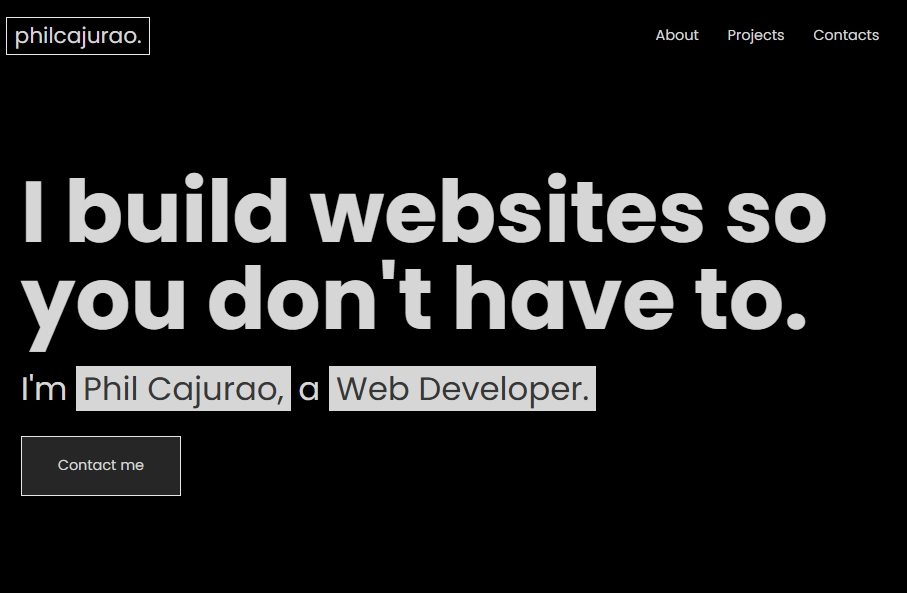
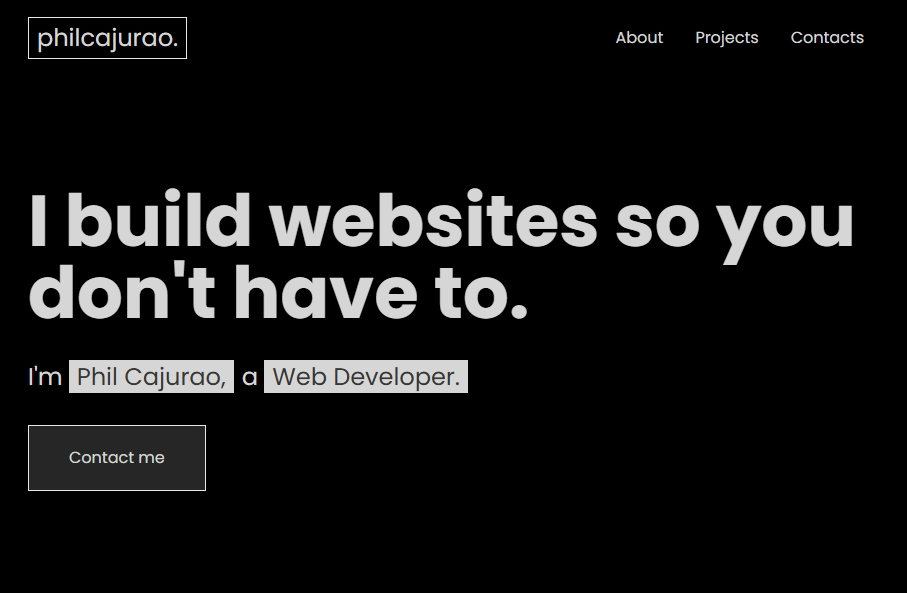
Updated changes

Changed region(s): [[0.0, 0.2732, 0.957, 0.8499], [0.6792, 0.0304, 0.957, 0.0911], [0.0, 0.0304, 0.2161, 0.1214]]

diff --git a/src/sections/Projects.jsx b/src/sections/Projects.jsx
@@ -1,26 +1,32 @@
 import ie from "../assets/projects/ie.png"
 import fts from "../assets/projects/fts.png"
+import feoaf from "../assets/projects/feoaf.png"
+import portfolio from "../assets/projects/portfolio.png"
 import ghl from "../assets/techstacks/ghl.png"
 import { FaReact, FaPhp, FaWordpress } from "react-icons/fa";
 import { RiTailwindCssFill } from "react-icons/ri";
+import { TbBrandNextjs } from "react-icons/tb";
+import { BiLogoTypescript } from "react-icons/bi";
 
 const Projects = () => {
   return (
     <div className="h-full px-4 py-16">
       <h3 className="text-2xl font-semibold text-center mb-16">Projects</h3>
 
-      <div className="grid lg:grid-cols-2 w-full place-items-center gap-8">
-        <div className="card border max-w-md overflow-y-hidden">
+
+
+      <div className="grid lg:grid-cols-2 w-full place-items-stretch gap-8">
+        <div className="card border max-w-md overflow-y-hidden mx-auto">
           <figure>
             <img
               src={ie}
               alt="Insurance Enterprise USA Site"
-              className="h-full"
+              className="h-full border-b  border-neutral/50"
             />
           </figure>
           <div className="card-body">
             <h2 className="card-title">Insurance Enterprise USA</h2>
-            <p className="line-clamp-2 leading-4">Insurance website with quote & enroll feature.</p>
+            <p className="leading-4 text-sm text-base-content/80">Insurance website with quote & enroll feature.</p>
 
             <div className="flex space-x-2 text-2xl">
               <div className="text-[#3858E9] tooltip tooltip-bottom" data-tip="Wordpress">
@@ -56,24 +62,23 @@ const Projects = () => {
           </div>
         </div>
 
-        <div className="card border max-w-md overflow-y-hidden">
+
+
+        <div className="card border max-w-md overflow-y-hidden mx-auto">
           <figure>
             <img
               src={fts}
               alt="Fortune Tech Solutions Site"
-              className="h-full"
+              className="h-full border-b  border-neutral/50"
             />
           </figure>
           <div className="card-body">
             <h2 className="card-title">Fortune Tech Solutions</h2>
-            <p className="line-clamp-2 leading-4">Business-focused site offering IT services.</p>
+            <p className="leading-4 text-sm text-base-content/80">Business-focused site offering IT services.</p>
 
             <div className="flex items-center space-x-2 text-2xl">
-              <div className="tooltip tooltip-bottom" data-tip="EmailJS">
-                <svg className="w-5 h-5 text-[#FF8434] rotate-45" aria-hidden="true" xmlns="http://www.w3.org/2000/svg" width="24" height="24" fill="currentColor" viewBox="0 0 24 24">
-                  <path d="m3.62 6.389 8.396 6.724 8.638-6.572-7.69-4.29a1.975 1.975 0 0 0-1.928 0L3.62 6.39Z" />
-                  <path d="m22 8.053-8.784 6.683a1.978 1.978 0 0 1-2.44-.031L2.02 7.693a1.091 1.091 0 0 0-.019.199v11.065C2 20.637 3.343 22 5 22h14c1.657 0 3-1.362 3-3.043V8.053Z" />
-                </svg>
+              <div className="tooltip tooltip-bottom" data-tip="GoHighLevel">
+                <img src={ghl} alt="ghl" className="w-full max-h-[23.99px]" />
               </div>
               <div className="text-[#53c1de] tooltip tooltip-bottom" data-tip="React JS">
                 {/* <img src={react} alt="" className="w-full max-h-[25px]" /> */}
@@ -110,8 +115,121 @@ const Projects = () => {
             </div>
           </div>
         </div>
-      </div>
 
+
+        <div className="card border max-w-md overflow-y-hidden mx-auto">
+          <figure>
+            <img
+              src={feoaf}
+              alt="Future Entrepreneurs Of America Foundation Site"
+              className="h-full border-b  border-neutral/50"
+            />
+          </figure>
+          <div className="card-body">
+            <h2 className="card-title">Future Entrepreneurs Of America Foundation</h2>
+            <p className="leading-4 text-sm text-base-content/80">An organization dedicated to developing, guiding, and mentoring young entrepreneurs.</p>
+
+            <div className="flex items-center space-x-2 text-2xl">
+              <div className="tooltip tooltip-bottom" data-tip="GoHighLevel">
+                <img src={ghl} alt="ghl" className="w-full max-h-[23.99px]" />
+              </div>
+              <div className="text-white tooltip tooltip-bottom" data-tip="Next JS">
+                <TbBrandNextjs />
+              </div>
+              <div className="text-[#3178C6] tooltip tooltip-bottom" data-tip="TypeScript">
+                <BiLogoTypescript />
+              </div>
+              <div className="tooltip tooltip-bottom" data-tip="DaisyUI">
+                <svg className="w-6 h-6" viewBox="0 0 256 404" version="1.1" xmlns="http://www.w3.org/2000/svg" preserveAspectRatio="xMidYMid">
+                  <title>daisyUI</title>
+                  <g>
+                    <path d="M66.406015,280.753083 L189.593985,280.753083 C223.611404,280.753083 251.18797,308.329649 251.18797,342.347068 C251.18797,376.364486 223.611404,403.941053 189.593985,403.941053 L66.406015,403.941053 C32.3885965,403.941053 4.81203008,376.364486 4.81203008,342.347068 C4.81203008,308.329649 32.3885965,280.753083 66.406015,280.753083 Z" fill="#1AD1A5"></path>
+                    <circle fill="#FFFFFF" cx="128" cy="128" r="123.18797"></circle>
+                    <path d="M128,0 C198.692448,0 256,57.307552 256,128 C256,198.692448 198.692448,256 128,256 C57.307552,256 0,198.692448 0,128 C0,57.307552 57.307552,0 128,0 Z M128,4.81203008 C59.9651629,4.81203008 4.81203008,59.9651629 4.81203008,128 C4.81203008,196.034837 59.9651629,251.18797 128,251.18797 C196.034837,251.18797 251.18797,196.034837 251.18797,128 C251.18797,59.9651629 196.034837,4.81203008 128,4.81203008 Z" fillOpacity="0.2" fill="#000000"></path>
+                    <circle fill="#FF9903" cx="128" cy="128" r="55.1882105"></circle>
+                  </g>
+                </svg>
+              </div>
+              <div className="text-[#38BDF8] tooltip tooltip-bottom" data-tip="Tailwind">
+                {/* <img src={react} alt="" className="w-full max-h-[25px]" /> */}
+                <RiTailwindCssFill />
+              </div>
+            </div>
+
+            <div className="card-actions mt-8 justify-start sm:justify-end space-x-2">
+              {/* <a href="https://www.insuranceenterpriseusa.com/" target="_blank" rel="noopener noreferrer" className="flex items-center justify-center bg-base-300 p-3 text-center border transition-all duration-300 cursor-pointer hover:-translate-x-1 hover:-translate-y-1 hover:rounded-md hover:shadow-[2px_2px_0px_white]">
+                <svg className="w-6 h-6 text-gray-800 dark:text-white" aria-hidden="true" xmlns="http://www.w3.org/2000/svg" width="24" height="24" fill="none" viewBox="0 0 24 24">
+                  <path stroke="currentColor" strokeLinecap="round" strokeLinejoin="round" strokeWidth="2" d="m8 8-4 4 4 4m8 0 4-4-4-4m-2-3-4 14" />
+                </svg>
+              </a> */}
+              <a href="https://www.feoaf.org/" target="_blank" rel="noopener noreferrer" className="flex items-center justify-center bg-base-300 p-3 text-center border transition-all duration-300 cursor-pointer hover:-translate-x-1 hover:-translate-y-1 hover:rounded-md hover:shadow-[2px_2px_0px_white]">
+                <svg className="w-6 h-6 text-gray-800 dark:text-white" aria-hidden="true" xmlns="http://www.w3.org/2000/svg" width="24" height="24" fill="none" viewBox="0 0 24 24">
+                  <path stroke="currentColor" strokeLinecap="round" strokeLinejoin="round" strokeWidth="2" d="M13.213 9.787a3.391 3.391 0 0 0-4.795 0l-3.425 3.426a3.39 3.39 0 0 0 4.795 4.794l.321-.304m-.321-4.49a3.39 3.39 0 0 0 4.795 0l3.424-3.426a3.39 3.39 0 0 0-4.794-4.795l-1.028.961" />
+                </svg>
+              </a>
+            </div>
+          </div>
+        </div>
+
+
+        <div className="card border max-w-md overflow-y-hidden mx-auto relative">
+          <figure>
+            <img
+              src={portfolio}
+              alt="Portofolio Site"
+              className="h-full border-b  border-neutral/50"
+            />
+          </figure>
+          <div className="card-body flex-initial">
+            <h2 className="card-title">My Portfolio</h2>
+            <p className="leading-4 text-sm text-base-content/80">A simple showcase of my expertise with a clean and smooth design.</p>
+
+            <div className="flex items-center space-x-2 text-2xl">
+              <div className="tooltip tooltip-bottom" data-tip="EmailJS">
+                <svg className="w-5 h-5 text-[#FF8434] rotate-45" aria-hidden="true" xmlns="http://www.w3.org/2000/svg" width="24" height="24" fill="currentColor" viewBox="0 0 24 24">
+                  <path d="m3.62 6.389 8.396 6.724 8.638-6.572-7.69-4.29a1.975 1.975 0 0 0-1.928 0L3.62 6.39Z" />
+                  <path d="m22 8.053-8.784 6.683a1.978 1.978 0 0 1-2.44-.031L2.02 7.693a1.091 1.091 0 0 0-.019.199v11.065C2 20.637 3.343 22 5 22h14c1.657 0 3-1.362 3-3.043V8.053Z" />
+                </svg>
+              </div>
+              <div className="text-[#53c1de] tooltip tooltip-bottom" data-tip="React JS">
+                {/* <img src={react} alt="" className="w-full max-h-[25px]" /> */}
+                <FaReact />
+              </div>
+              <div className="tooltip tooltip-bottom" data-tip="DaisyUI">
+                <svg className="w-6 h-6" viewBox="0 0 256 404" version="1.1" xmlns="http://www.w3.org/2000/svg" preserveAspectRatio="xMidYMid">
+                  <title>daisyUI</title>
+                  <g>
+                    <path d="M66.406015,280.753083 L189.593985,280.753083 C223.611404,280.753083 251.18797,308.329649 251.18797,342.347068 C251.18797,376.364486 223.611404,403.941053 189.593985,403.941053 L66.406015,403.941053 C32.3885965,403.941053 4.81203008,376.364486 4.81203008,342.347068 C4.81203008,308.329649 32.3885965,280.753083 66.406015,280.753083 Z" fill="#1AD1A5"></path>
+                    <circle fill="#FFFFFF" cx="128" cy="128" r="123.18797"></circle>
+                    <path d="M128,0 C198.692448,0 256,57.307552 256,128 C256,198.692448 198.692448,256 128,256 C57.307552,256 0,198.692448 0,128 C0,57.307552 57.307552,0 128,0 Z M128,4.81203008 C59.9651629,4.81203008 4.81203008,59.9651629 4.81203008,128 C4.81203008,196.034837 59.9651629,251.18797 128,251.18797 C196.034837,251.18797 251.18797,196.034837 251.18797,128 C251.18797,59.9651629 196.034837,4.81203008 128,4.81203008 Z" fillOpacity="0.2" fill="#000000"></path>
+                    <circle fill="#FF9903" cx="128" cy="128" r="55.1882105"></circle>
+                  </g>
+                </svg>
+              </div>
+              <div className="text-[#38BDF8] tooltip tooltip-bottom" data-tip="Tailwind">
+                {/* <img src={react} alt="" className="w-full max-h-[25px]" /> */}
+                <RiTailwindCssFill />
+              </div>
+            </div>
+
+            <div className="card-actions lg:absolute lg:right-8 lg:bottom-8 lg:w-full mt-8 justify-start sm:justify-end space-x-2">
+              <a href="https://github.com/philcajurao/philcajurao.github.io" target="_blank" rel="noopener noreferrer" className="flex items-center justify-center bg-base-300 p-3 text-center border transition-all duration-300 cursor-pointer hover:-translate-x-1 hover:-translate-y-1 hover:rounded-md hover:shadow-[2px_2px_0px_white]">
+                <svg className="w-6 h-6 text-gray-800 dark:text-white" aria-hidden="true" xmlns="http://www.w3.org/2000/svg" width="24" height="24" fill="none" viewBox="0 0 24 24">
+                  <path stroke="currentColor" strokeLinecap="round" strokeLinejoin="round" strokeWidth="2" d="m8 8-4 4 4 4m8 0 4-4-4-4m-2-3-4 14" />
+                </svg>
+              </a>
+              <a href="https://philcajurao.is-a.dev/" target="_blank" rel="noopener noreferrer" className="flex items-center justify-center bg-base-300 p-3 text-center border transition-all duration-300 cursor-pointer hover:-translate-x-1 hover:-translate-y-1 hover:rounded-md hover:shadow-[2px_2px_0px_white]">
+                <svg className="w-6 h-6 text-gray-800 dark:text-white" aria-hidden="true" xmlns="http://www.w3.org/2000/svg" width="24" height="24" fill="none" viewBox="0 0 24 24">
+                  <path stroke="currentColor" strokeLinecap="round" strokeLinejoin="round" strokeWidth="2" d="M13.213 9.787a3.391 3.391 0 0 0-4.795 0l-3.425 3.426a3.39 3.39 0 0 0 4.795 4.794l.321-.304m-.321-4.49a3.39 3.39 0 0 0 4.795 0l3.424-3.426a3.39 3.39 0 0 0-4.794-4.795l-1.028.961" />
+                </svg>
+              </a>
+            </div>
+          </div>
+        </div>
+
+
+
+      </div>
     </div>
   );
 }

diff --git a/src/components/TechStacks.jsx b/src/components/TechStacks.jsx
@@ -1,11 +1,14 @@
 import mysql from "../assets/techstacks/mysql.png"
 import ghl from "../assets/techstacks/ghl.png"
+import java from "../assets/techstacks/java.svg"
 
 
 
 import { FaReact, FaWordpress, FaJs, FaHtml5, FaCss3Alt, FaGitAlt } from "react-icons/fa";
 import { RiTailwindCssFill } from "react-icons/ri";
 import { SiMui, SiPhp } from "react-icons/si";
+import { DiMaterializecss } from "react-icons/di";
+
 
 
 const TechStacks = () => {
@@ -13,64 +16,85 @@ const TechStacks = () => {
     <div className="w-full mx-auto px-4 py-32">
       <div className="flex flex-col items-center">
         <h2 className="text-center text-2xl font-semibold mb-16">Technologies I recently used</h2>
-        <div className="grid grid-cols-2 md:grid-cols-4 lg:grid-cols-6">
-          <div className="border p-12 hover:bg-base-content hover:text-[#3858E9] text-base-content transition-all text-7xl group cursor-default relative flex justify-center items-center">
+
+
+        <div className="grid grid-cols-2 md:grid-cols-4 lg:grid-cols-7">
+
+
+
+          <div className="p-12 hover:bg-base-content hover:text-[#3858E9] text-base-content transition-all text-7xl group cursor-default relative flex justify-center items-center">
             <p className="absolute h-full w-full text-center top-12 ease-out opacity-0 group-hover:-translate-y-8 scale-0 group-hover:scale-100 group-hover:opacity-100 duration-300 transition-all text-lg text-base-content/90 group-hover:text-primary">Wordpress</p>
             <FaWordpress />
           </div>
-          <div className="border hover:bg-base-content group cursor-default relative flex justify-center items-center">
+          <div className="hover:bg-base-content group cursor-default relative flex justify-center items-center">
             <p className="absolute h-full w-full text-center top-12 ease-out opacity-0 group-hover:-translate-y-8 scale-0 group-hover:scale-100 group-hover:opacity-100 duration-300 transition-all text-lg text-base-content/90 group-hover:text-primary">GoHighLevel</p>
             <img src={ghl} alt="ghl" className="w-[4.5rem] h-[4.5rem] grayscale group-hover:grayscale-0 transition-all" />
           </div>
-          <div className="border p-12 hover:bg-base-content hover:text-[#4F5B93] text-base-content transition-all text-7xl group cursor-default relative flex justify-center items-center">
+          <div className="p-12 hover:bg-base-content hover:text-[#4F5B93] text-base-content transition-all text-7xl group cursor-default relative flex justify-center items-center">
             <p className="absolute h-full w-full text-center top-12 ease-out opacity-0 group-hover:-translate-y-8 scale-0 group-hover:scale-100 group-hover:opacity-100 duration-300 transition-all text-lg text-base-content/90 group-hover:text-primary">PHP</p>
             <SiPhp className="" />
           </div>
-          <div className="border p-12 hover:bg-base-content hover:text-[#53c1de] text-base-content transition-all text-7xl group cursor-default relative flex justify-center items-center">
+          <div className="p-12 hover:bg-base-content hover:text-[#53c1de] text-base-content transition-all text-7xl group cursor-default relative flex justify-center items-center">
             <p className="absolute h-full w-full text-center top-12 ease-out opacity-0 group-hover:-translate-y-8 scale-0 group-hover:scale-100 group-hover:opacity-100 duration-300 transition-all text-lg text-base-content/90 group-hover:text-primary">React</p>
             <FaReact className="" />
           </div>
-          <div className="border hover:bg-base-content group cursor-default relative flex justify-center items-center">
-            <p className="absolute h-full w-full text-center top-12 ease-out opacity-0 group-hover:-translate-y-8 scale-0 group-hover:scale-100 group-hover:opacity-100 duration-300 transition-all text-lg text-base-content/90 group-hover:text-primary">MySQL</p>
-            <img src={mysql} alt="" className="w-full max-w-[100px] grayscale group-hover:grayscale-0 transition-all" />
+          <div className="p-12 hover:bg-base-content hover:text-[#1572B6] text-base-content transition-all text-7xl group cursor-default relative flex justify-center items-center">
+            <p className="absolute h-full w-full text-center top-12 ease-out opacity-0 group-hover:-translate-y-8 scale-0 group-hover:scale-100 group-hover:opacity-100 duration-300 transition-all text-lg text-base-content/90 group-hover:text-primary">CSS</p>
+            <FaCss3Alt className="" />
           </div>
-          <div className="border p-12 hover:bg-base-content hover:text-[#F44D27] text-base-content transition-all text-7xl group cursor-default relative flex justify-center items-center">
+          <div className="p-12 hover:bg-base-content hover:text-[#F44D27] text-base-content transition-all text-7xl group cursor-default relative flex justify-center items-center">
             <p className="absolute h-full w-full text-center top-12 ease-out opacity-0 group-hover:-translate-y-8 scale-0 group-hover:scale-100 group-hover:opacity-100 duration-300 transition-all text-lg text-base-content/90 group-hover:text-primary">Git</p>
             <FaGitAlt className="" />
           </div>
 
-          <div className="border p-12 hover:bg-base-content hover:text-[#F7BB00] text-base-content transition-all text-7xl group cursor-default relative flex justify-center items-center">
+
+
+          <div className="p-12 hover:bg-base-content hover:text-[#F7BB00] text-base-content transition-all text-7xl group cursor-default relative flex justify-center items-center">
             <p className="absolute h-full w-full text-center top-12 ease-out opacity-0 group-hover:-translate-y-8 scale-0 group-hover:scale-100 group-hover:opacity-100 duration-300 transition-all text-lg text-base-content/90 group-hover:text-primary">JavaScript</p>
             <FaJs className="" />
           </div>
-          <div className="border p-12 hover:bg-base-content hover:text-[#f16529] text-base-content transition-all text-7xl group cursor-default relative flex justify-center items-center">
+          <div className="p-12 hover:bg-base-content hover:text-[#f16529] text-base-content transition-all text-7xl group cursor-default relative flex justify-center items-center">
             <p className="absolute h-full w-full text-center top-12 ease-out opacity-0 group-hover:-translate-y-8 scale-0 group-hover:scale-100 group-hover:opacity-100 duration-300 transition-all text-lg text-base-content/90 group-hover:text-primary">HTML</p>
             <FaHtml5 className="" />
           </div>
-          <div className="border p-12 hover:bg-base-content hover:text-[#1572B6] text-base-content transition-all text-7xl group cursor-default relative flex justify-center items-center">
-            <p className="absolute h-full w-full text-center top-12 ease-out opacity-0 group-hover:-translate-y-8 scale-0 group-hover:scale-100 group-hover:opacity-100 duration-300 transition-all text-lg text-base-content/90 group-hover:text-primary">CSS</p>
-            <FaCss3Alt className="" />
+          <div className="p-12 hover:bg-base-content hover:text-[#EB7077] text-base-content transition-all text-7xl group cursor-default relative flex justify-center items-center">
+            <p className="absolute h-full w-full text-center top-12 ease-out opacity-0 group-hover:-translate-y-8 scale-0 group-hover:scale-100 group-hover:opacity-100 duration-300 transition-all text-lg text-base-content/90 group-hover:text-primary">Materialize CSS</p>
+            <DiMaterializecss className="" />
           </div>
-          <div className="border p-12 hover:bg-base-content hover:text-[#007FFF] text-base-content transition-all text-7xl group cursor-default relative flex justify-center items-center">
+          <div className="p-12 hover:bg-base-content hover:text-[#007FFF] text-base-content transition-all text-7xl group cursor-default relative flex justify-center items-center">
             <p className="absolute h-full w-full text-center top-12 ease-out opacity-0 group-hover:-translate-y-8 scale-0 group-hover:scale-100 group-hover:opacity-100 duration-300 transition-all text-lg text-base-content/90 group-hover:text-primary">MUI</p>
             <SiMui className="" />
           </div>
-          <div className="border hover:bg-base-content group cursor-default relative flex justify-center items-center">
+          <div className="hover:bg-base-content group cursor-default relative flex justify-center items-center">
             <p className="absolute h-full w-full text-center top-12 ease-out opacity-0 group-hover:-translate-y-8 scale-0 group-hover:scale-100 group-hover:opacity-100 duration-300 transition-all text-lg text-base-content/90 group-hover:text-primary">DaisyUI</p>
             <svg className="w-[4.5rem] h-[4.5rem] grayscale group-hover:grayscale-0 transition-all" viewBox="0 0 256 404" version="1.1" xmlns="http://www.w3.org/2000/svg" preserveAspectRatio="xMidYMid">
               <title>daisyUI</title>
               <g>
                 <path d="M66.406015,280.753083 L189.593985,280.753083 C223.611404,280.753083 251.18797,308.329649 251.18797,342.347068 C251.18797,376.364486 223.611404,403.941053 189.593985,403.941053 L66.406015,403.941053 C32.3885965,403.941053 4.81203008,376.364486 4.81203008,342.347068 C4.81203008,308.329649 32.3885965,280.753083 66.406015,280.753083 Z" fill="#1AD1A5"></path>
                 <circle fill="#FFFFFF" cx="128" cy="128" r="123.18797"></circle>
-                <path d="M128,0 C198.692448,0 256,57.307552 256,128 C256,198.692448 198.692448,256 128,256 C57.307552,256 0,198.692448 0,128 C0,57.307552 57.307552,0 128,0 Z M128,4.81203008 C59.9651629,4.81203008 4.81203008,59.9651629 4.81203008,128 C4.81203008,196.034837 59.9651629,251.18797 128,251.18797 C196.034837,251.18797 251.18797,196.034837 251.18797,128 C251.18797,59.9651629 196.034837,4.81203008 128,4.81203008 Z" fillOpacity="0.2" fill="#000000"></path>
+                <path d="M128,0 C198.692448,0 256,57.307552 256,128 C256,198.692448 198.692448,256 128,256 C57.307552,256 0,198.692448 0,128 C0,57.307552 57.307552,0 128,0 Z M128,4.81203008 C59.9651629,4.81203008 4.81203008,59.9651629 4.81203008,128 C4.81203008,196.034837 59.9651629,251.18797 128,251.18797 C196.034837,251.18797 251.18797,196.034837 251.18797,128 C251.18797,59.9651629 196.034837,4.81203008 128,4.81203008 Z" fillOpacity="0.3" fill="#000000"></path>
                 <circle fill="#FF9903" cx="128" cy="128" r="55.1882105"></circle>
               </g>
             </svg>
           </div>
-          <div className="border p-12 hover:bg-base-content hover:text-[#38BDF8] text-base-content transition-all text-7xl group cursor-default relative flex justify-center items-center">
+          <div className="p-12 hover:bg-base-content hover:text-[#38BDF8] text-base-content transition-all text-7xl group cursor-default relative flex justify-center items-center">
             <p className="absolute h-full w-full text-center top-12 ease-out opacity-0 group-hover:-translate-y-8 scale-0 group-hover:scale-100 group-hover:opacity-100 duration-300 transition-all text-lg text-base-content/90 group-hover:text-primary">Tailwind</p>
             <RiTailwindCssFill className="" />
           </div>
+
+
+          <div className="p-12 hover:bg-base-content hover:text-[#38BDF8] text-base-content transition-all text-7xl group cursor-default relative flex justify-center items-center md:col-span-2 lg:col-span-1">
+            <p className="absolute h-full w-full text-center top-12 ease-out opacity-0 group-hover:-translate-y-8 scale-0 group-hover:scale-100 group-hover:opacity-100 duration-300 transition-all text-lg text-base-content/90 group-hover:text-primary">Java</p>
+            <img src={java} alt="" className="w-full max-w-[100px] scale-75 grayscale group-hover:grayscale-0 transition-all" />
+          </div>
+          <div className="hover:bg-base-content group cursor-default relative flex justify-center items-center md:col-span-2 lg:col-span-1">
+            <p className="absolute h-full w-full text-center top-12 ease-out opacity-0 group-hover:-translate-y-8 scale-0 group-hover:scale-100 group-hover:opacity-100 duration-300 transition-all text-lg text-base-content/90 group-hover:text-primary">MySQL</p>
+            <img src={mysql} alt="" className="w-full max-w-[100px] grayscale group-hover:grayscale-0 transition-all" />
+          </div>
+
+
+
+
         </div>
       </div>
     </div>

diff --git a/src/sections/About.jsx b/src/sections/About.jsx
@@ -7,14 +7,14 @@ const About = () => {
 
       <div className="grid lg:grid-cols-2 mx-auto w-full max-w-5xl gap-4 px-4">
 
-        <div className="text-2xl border p-8 bg-base-100 flex flex-col justify-center items-start">
+        <div className="text-lg border p-8 bg-base-100 flex flex-col md:flex-row md:items-center md:gap-x-8 lg:flex-col lg:items-start justify-center items-start">
           {/* <div className="border mb-4 p-1">
           <img src={dp} alt="" className="w-full max-h-[120px]" />
         </div> */}
           <p className="text-base-content/80 font-light">
-            Take a look at my Resume by clicking this button.
+            You can view my Resume by clicking this button.
           </p>
-          <a href={Resume} download target="_blank" rel="noopener noreferrer" className="flex items-center justify-center text-lg space-x-2 mt-8 bg-base-300 py-3 w-full max-w-[12rem] text-center border transition-all duration-300 cursor-pointer hover:-translate-x-1 hover:-translate-y-1 hover:rounded-md hover:shadow-[4px_4px_0px_white]">
+          <a href={Resume} download target="_blank" rel="noopener noreferrer" className="flex items-center justify-center text-lg space-x-2 mt-8 md:mt-0 lg:mt-8 bg-base-300 py-3 w-full max-w-[12rem] text-center border transition-all duration-300 cursor-pointer hover:-translate-x-1 hover:-translate-y-1 hover:rounded-md hover:shadow-[4px_4px_0px_white]">
             <span>Download</span>
             <svg className="w-6 h-6 text-gray-800 dark:text-white" aria-hidden="true" xmlns="http://www.w3.org/2000/svg" width="24" height="24" fill="none" viewBox="0 0 24 24">
               <path stroke="currentColor" strokeLinecap="round" strokeLinejoin="round" strokeWidth="2" d="M12 13V4M7 14H5a1 1 0 0 0-1 1v4a1 1 0 0 0 1 1h14a1 1 0 0 0 1-1v-4a1 1 0 0 0-1-1h-2m-1-5-4 5-4-5m9 8h.01" />
@@ -44,11 +44,11 @@ const About = () => {
           </a>
         </div>
 
-        <div className="text-2xl lg:col-span-2 border p-8 bg-base-100 flex justify-center items-center">
+        <div className="text-lg lg:col-span-2 border p-8 bg-base-100 flex justify-center items-center">
           <p className="text-base-content/80 font-light">
             <span className="bg-base-content font-normal text-primary px-1">Web design is my passion.</span>&nbsp;
             I enjoy building a simple, clean and smooth websites like this one.
-            Apart from that, expanding my knowledge through experimenting and learning new technologies are so important
+            Apart from that, <span className="">expanding my knowledge</span> through learning new technologies are so important
             to keep a fresh perspective.
           </p>
         </div>

diff --git a/src/layouts/NavBar.jsx b/src/layouts/NavBar.jsx
@@ -2,7 +2,7 @@ import { Link } from "react-scroll";
 
 const NavBar = () => {
     return (
-        <div className="navbar px-4 py-0 h-20">
+        <div className="navbar px-8 py-0 h-20">
 
 
             <div className="navbar-start">
